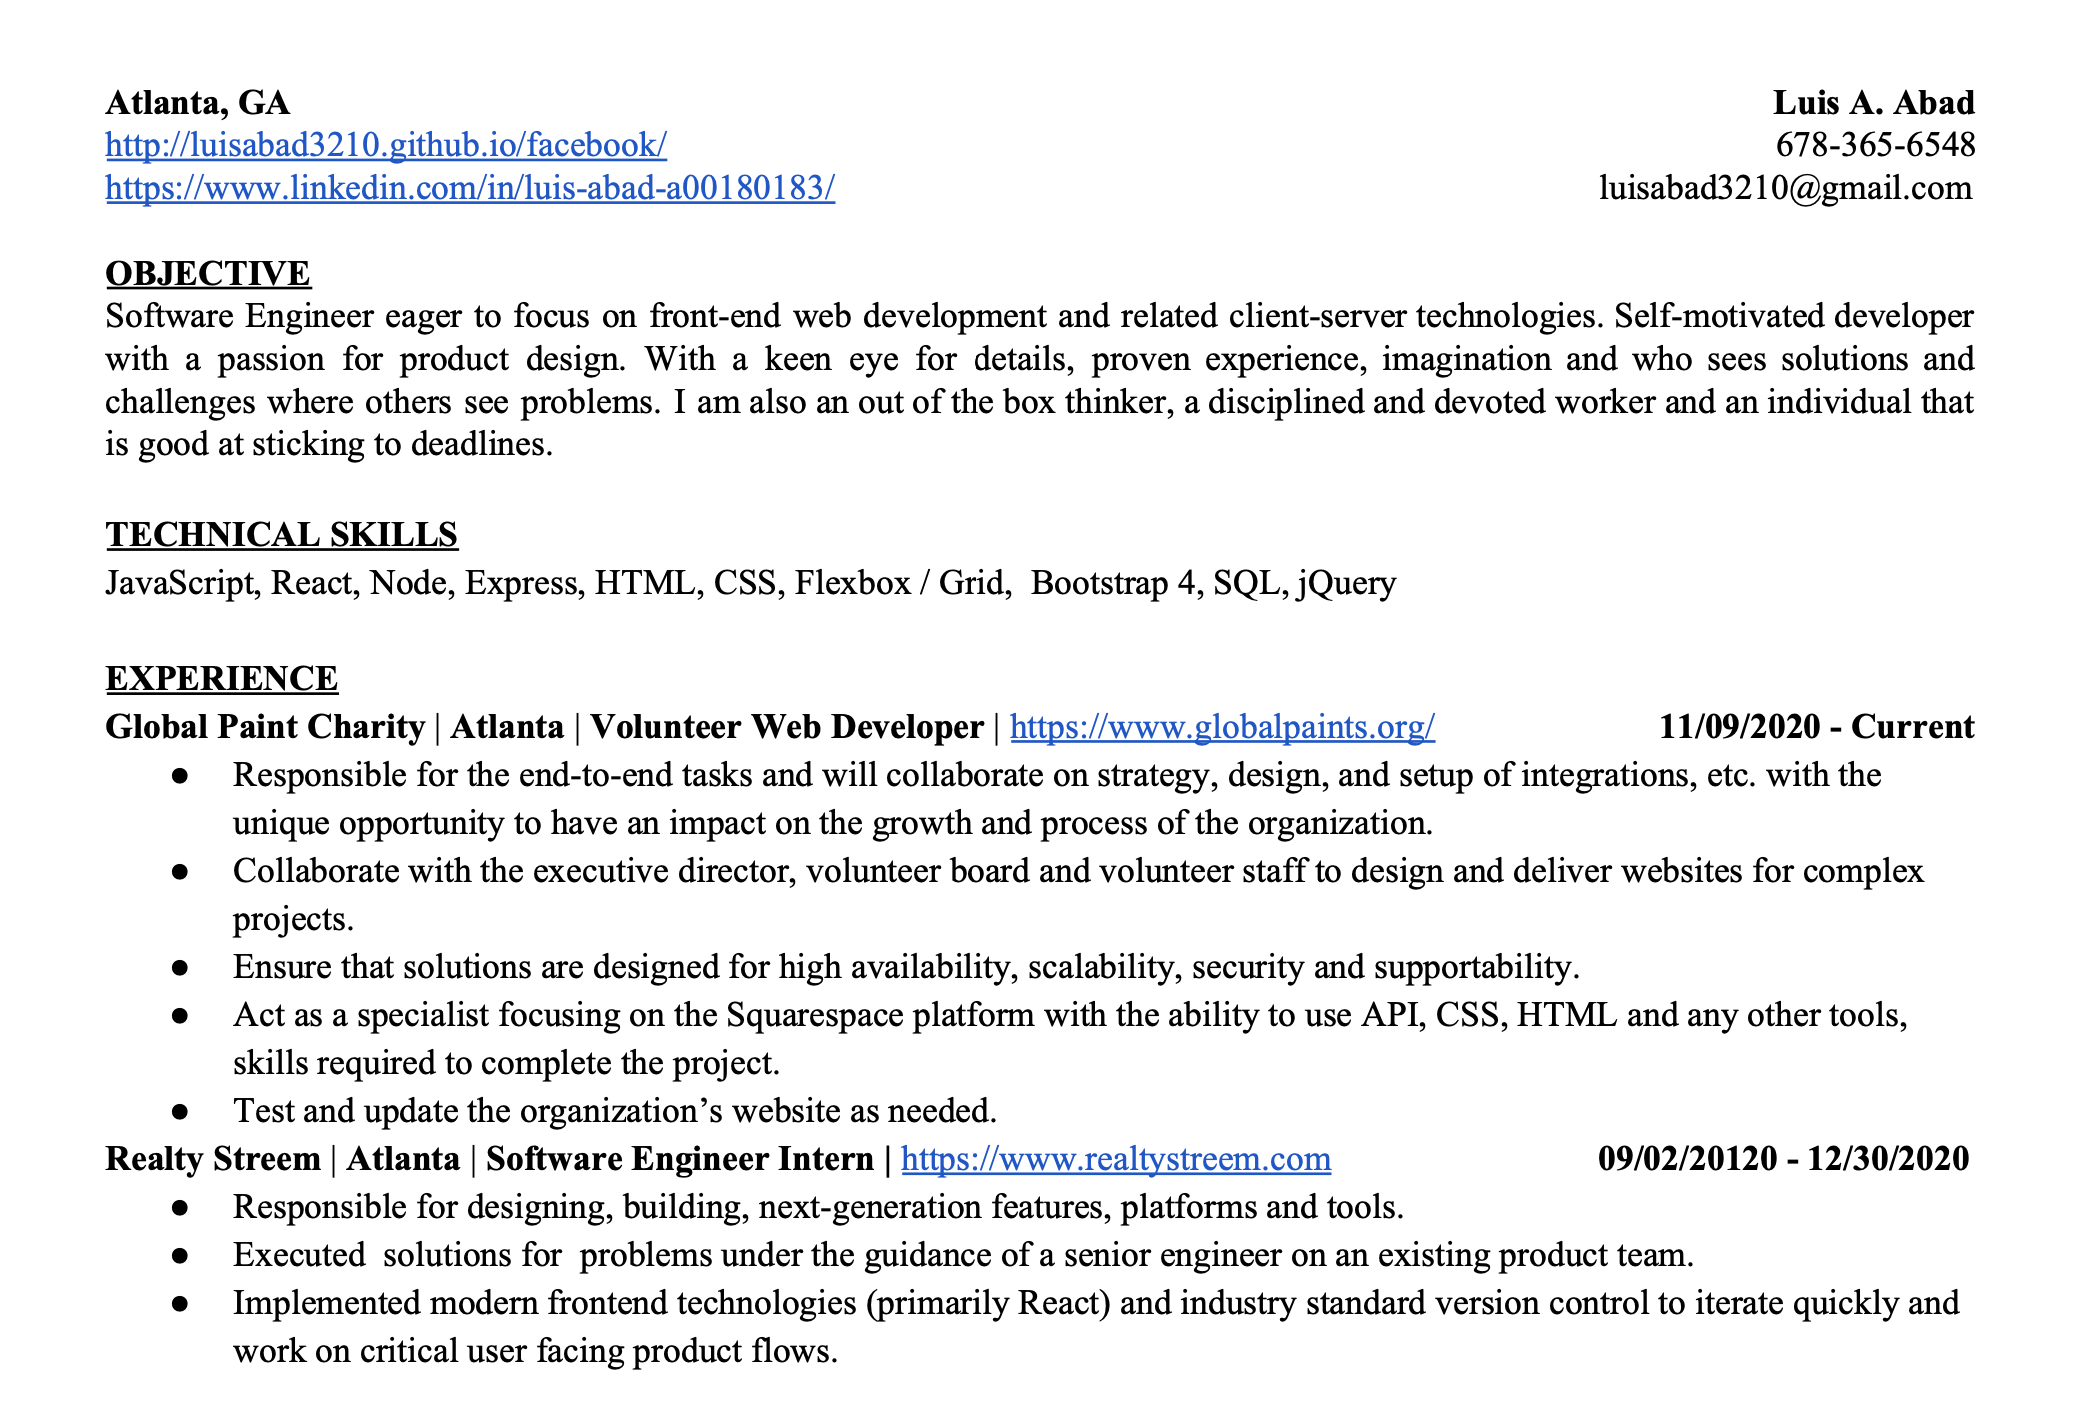
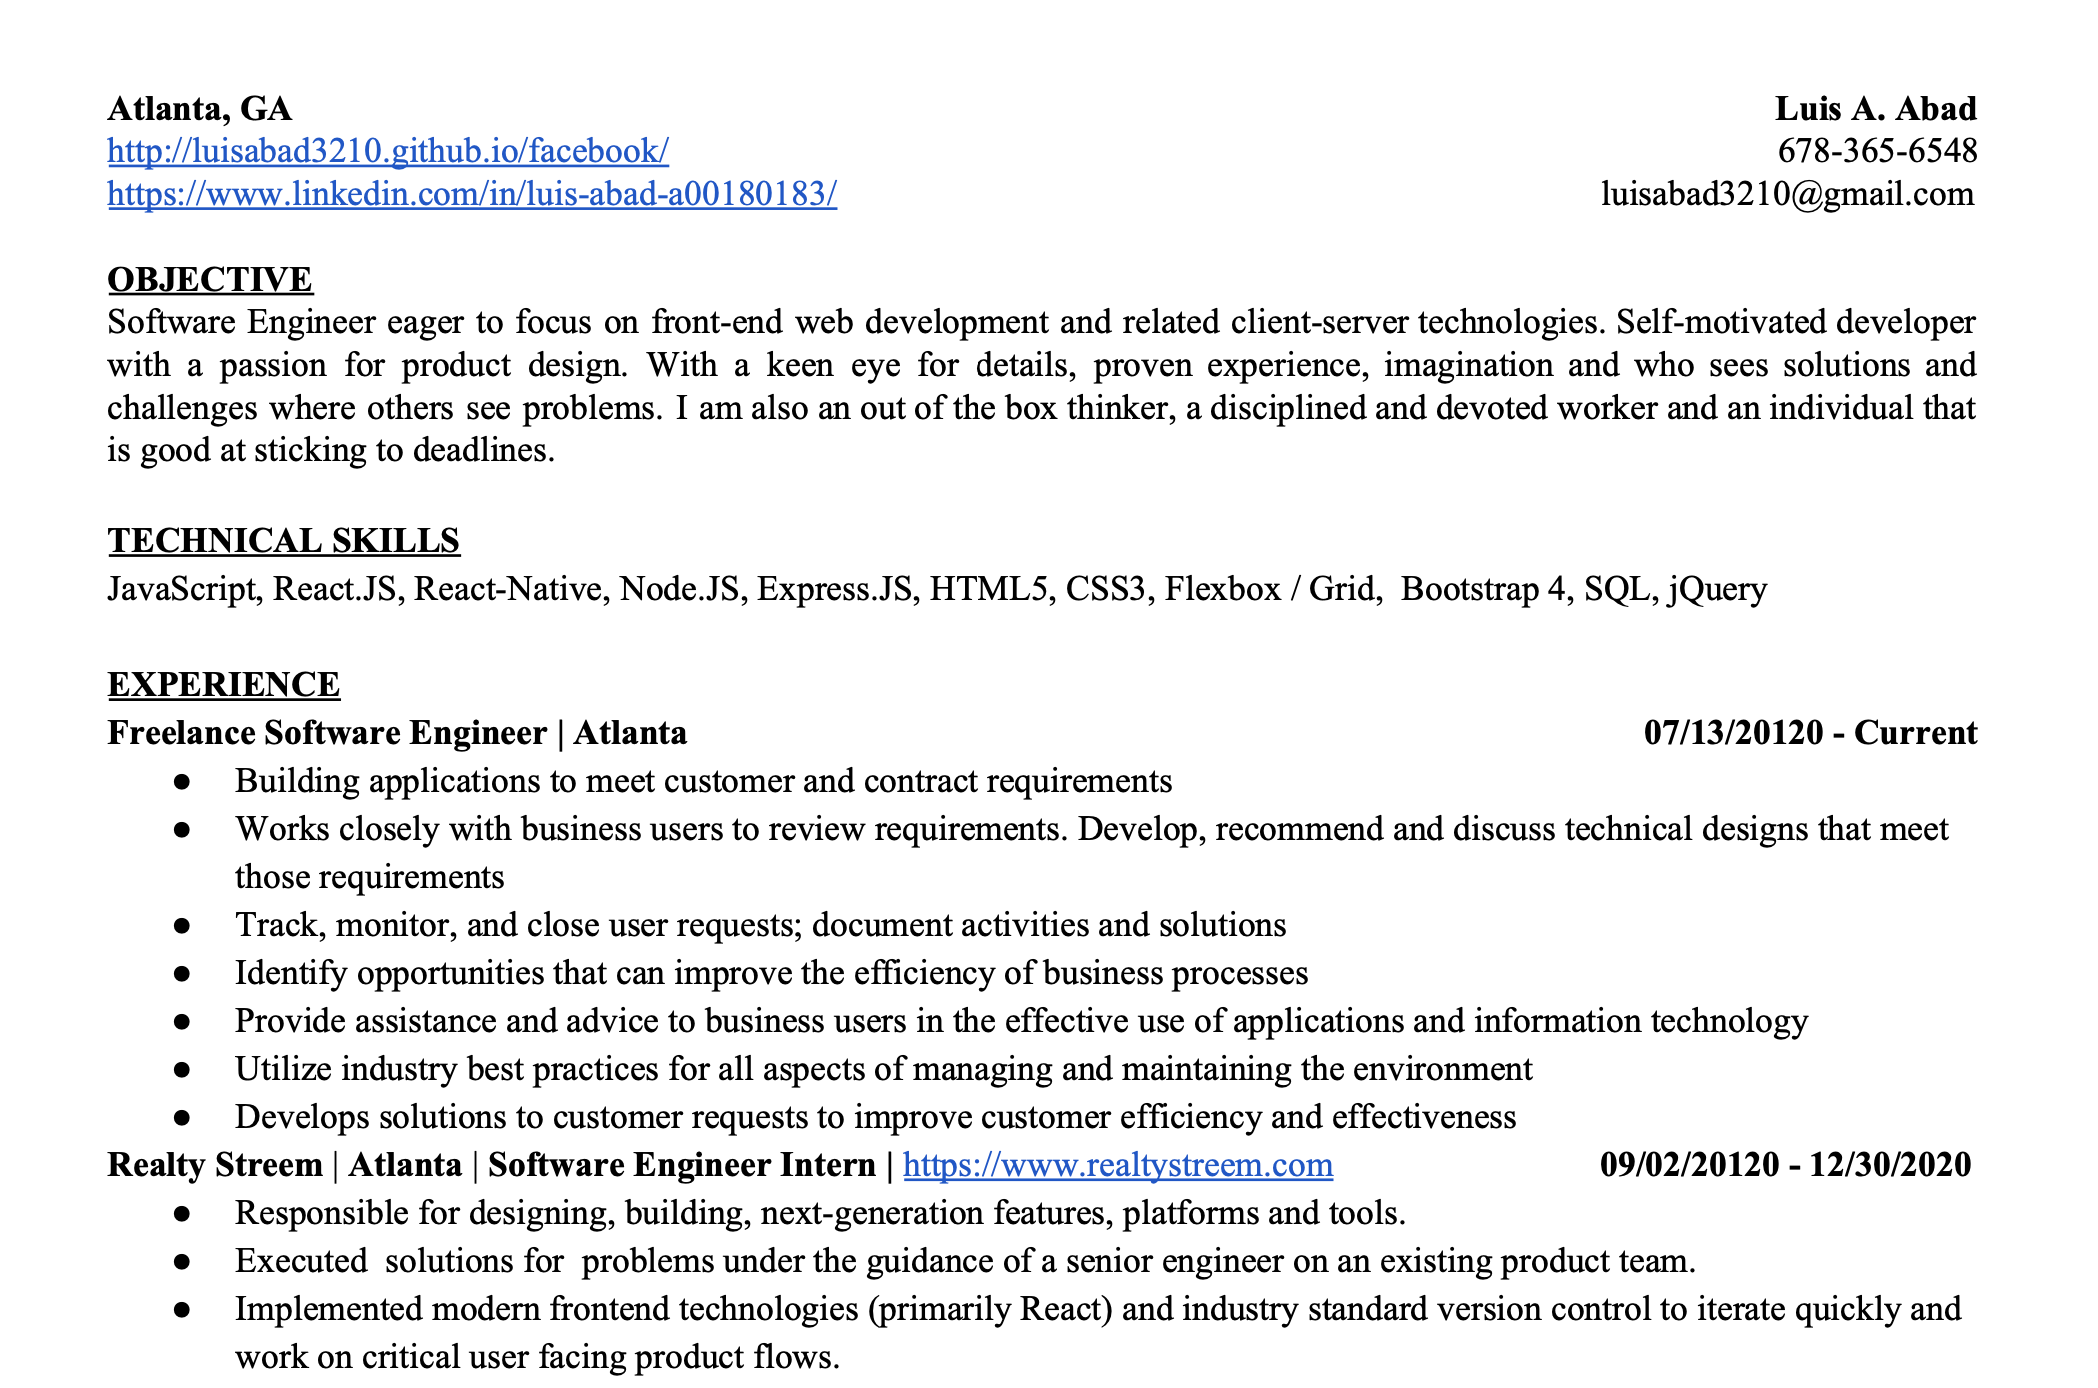
adding updated resume

diff --git a/src/components/header.js b/src/components/header.js
@@ -4,7 +4,6 @@ import Contact from '../components/contact/contact';
 import {Link} from 'react-router-dom'
 
 const Header = ({profile}) => {
-    // console.log(profile.firstName + ' ' + profile.lastName)
     return (
         <div className='headerContainer'>
             <div className='headerSection'>
